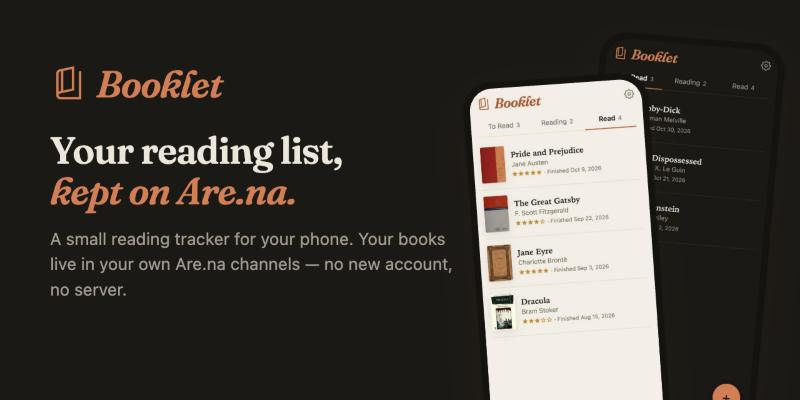
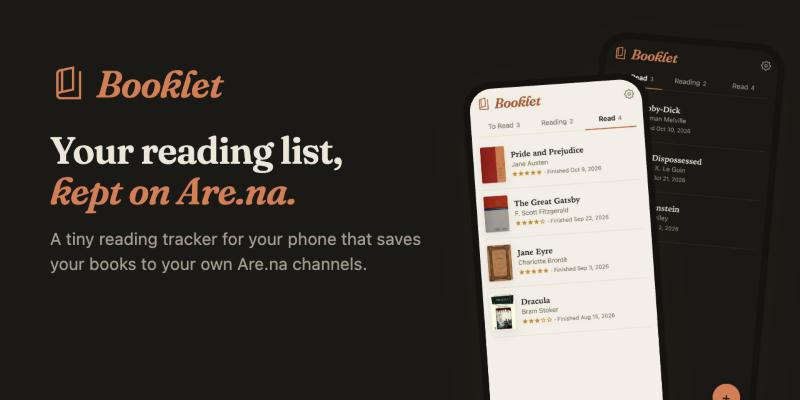
Rewrite landing page and README copy in a plainer, more personal voice
Drop slogan lines, rule-of-three lists, bold-lead bullets and decorative
glyphs; add a short first-person note on why Booklet exists; refresh the
README banner's tagline.

Changed region(s): [[0.0625, 0.57, 0.5625, 0.75]]

diff --git a/site/index.html b/site/index.html
@@ -4,7 +4,7 @@
 <meta charset="utf-8">
 <meta name="viewport" content="width=device-width, initial-scale=1">
 <title>Booklet — a reading tracker that keeps your books on Are.na</title>
-<meta name="description" content="Booklet is a small phone app for what you want to read, are reading and have read. Your books live in your own Are.na channels. Free and open source.">
+<meta name="description" content="Booklet is a tiny app for your phone that keeps track of what you want to read, what you’re reading and what you’ve finished, and saves it all to your own Are.na channels.">
 <meta property="og:title" content="Booklet">
 <meta property="og:description" content="A reading tracker that keeps your books on Are.na. Free and open source.">
 <meta property="og:image" content="https://booklet.lol/screens/shelf.jpg">
@@ -69,10 +69,8 @@
   .section-lede { color: var(--muted); max-width: 40em; margin: 0 0 40px; }
   .features { display: grid; grid-template-columns: repeat(3, 1fr); gap: 20px; }
   .feature { background: var(--surface); border: 1px solid var(--line); border-radius: 16px; padding: 22px; }
-  .feature h3 { font: 600 20px/1.25 var(--serif); margin: 10px 0 6px; }
+  .feature h3 { font: 600 20px/1.25 var(--serif); margin: 0 0 6px; }
   .feature p { margin: 0; color: var(--muted); font-size: 15.5px; }
-  .glyph { width: 38px; height: 38px; border-radius: 10px; background: var(--manila); color: var(--accent);
-    display: grid; place-items: center; font-size: 19px; }
 
   .split { display: grid; grid-template-columns: .9fr 1.1fr; gap: 56px; align-items: center; }
   .split .phone { position: relative; margin: 0 auto; transform: none; }
@@ -92,6 +90,7 @@
   .faq h3 { font: 600 19px/1.3 var(--serif); margin: 0 0 6px; }
   .faq p { margin: 0; color: var(--muted); }
 
+  .why p { max-width: 40em; color: var(--muted); margin: 0 0 14px; font-size: 18px; }
   footer { border-top: 1px solid var(--line); padding: 36px 0 56px; color: var(--muted); font-size: 14px; }
   footer .row { display: flex; flex-wrap: wrap; gap: 8px 22px; justify-content: space-between; }
   footer a { color: var(--muted); }
@@ -126,14 +125,14 @@
     <div>
       <p class="eyebrow">A reading tracker for Are.na</p>
       <h1>Your reading list, <em>kept on Are.na.</em></h1>
-      <p class="lede">Booklet is a small app for your phone: the books you want to read, the ones you’re reading,
-        and the ones you’ve finished. Search, tap, done. Your books live in your own Are.na channels — no new
-        account, no server.</p>
+      <p class="lede">Booklet is a tiny app for your phone that keeps track of what you want to read, what
+        you’re reading and what you’ve finished. Everything gets saved to channels in your own Are.na
+        account, so there’s nothing new to sign up for.</p>
       <div class="ctas">
         <a class="btn primary" href="https://github.com/awelfle/booklet">Get Booklet on GitHub</a>
-        <a class="btn" href="https://github.com/awelfle/booklet#set-up-your-own-copy">Read the setup guide</a>
+        <a class="btn" href="https://github.com/awelfle/booklet#set-up-your-own-copy">How to set it up</a>
       </div>
-      <p class="fine">Free and open source (MIT). Works with free Are.na accounts.</p>
+      <p class="fine">It’s free and open source, and it works fine with a free Are.na account.</p>
     </div>
     <div class="phones" aria-hidden="true">
       <div class="phone back"><img src="/screens/dark.jpg" alt=""></div>
@@ -143,22 +142,24 @@
 
   <section id="features">
     <div class="wrap">
-      <h2>Everything a reading list needs, nothing it doesn’t</h2>
-      <p class="section-lede">Made for adding a book in the bookshop, marking it started on the train, and
-        rating it the night you finish.</p>
+      <h2>What it does</h2>
+      <p class="section-lede">It’s a list of books, so it doesn’t do a ton. But it does these things well.</p>
       <div class="features">
-        <div class="feature"><div class="glyph">◫</div><h3>Three shelves</h3>
-          <p>To Read, Reading and Read. Move a book along with one tap; Booklet notes when you started and finished.</p></div>
-        <div class="feature"><div class="glyph">⌕</div><h3>Finds the book</h3>
-          <p>Searches Open Library and Google Books together, so brand-new releases, typos and ISBNs all turn up.</p></div>
-        <div class="feature"><div class="glyph">❦</div><h3>The right edition</h3>
-          <p>Saves the U.S. print edition — hardcover first — with its cover, publisher, pages and ISBN.</p></div>
-        <div class="feature"><div class="glyph">★</div><h3>Dates and ratings</h3>
-          <p>Rate a book when you finish it, and fix any start or finish date after the fact.</p></div>
-        <div class="feature"><div class="glyph">▢</div><h3>On your home screen</h3>
-          <p>Add it to your phone and it opens like an app. Light and dark, sized for one thumb.</p></div>
-        <div class="feature"><div class="glyph">◎</div><h3>Your data, your Are.na</h3>
-          <p>Every book is a block in your own channels. Booklet has no server; your token stays on your device.</p></div>
+        <div class="feature"><h3>Three shelves</h3>
+          <p>To Read, Reading and Read. Moving a book to the next shelf takes one tap, and Booklet writes down the date.</p></div>
+        <div class="feature"><h3>Search that finds things</h3>
+          <p>It checks Open Library and Google Books at the same time, so it can find a book that came out last
+            week, and it doesn’t mind a typo or two.</p></div>
+        <div class="feature"><h3>The U.S. edition</h3>
+          <p>It picks the American print edition (hardcover, if there is one) and saves its cover, publisher,
+            page count and ISBN.</p></div>
+        <div class="feature"><h3>Ratings and dates</h3>
+          <p>Give a book some stars when you finish it. Forgot to mark when you started? You can fix the date later.</p></div>
+        <div class="feature"><h3>On your home screen</h3>
+          <p>Add it to your phone’s home screen and it opens like any other app. It does dark mode, too.</p></div>
+        <div class="feature"><h3>It stays on Are.na</h3>
+          <p>Each book is a block in your own channels. There’s no Booklet server, and your Are.na token
+            never leaves your phone.</p></div>
       </div>
     </div>
   </section>
@@ -167,13 +168,13 @@
     <div class="wrap split">
       <div class="phone"><img src="/screens/book.jpg" alt="A book in Booklet: cover, author, edition details, start date, links and actions"></div>
       <div>
-        <h2>Everything about a book, one tap away</h2>
-        <p class="section-lede">Tap any book for its edition details and your dates, with links out to read
-          more or buy a copy.</p>
+        <h2>A closer look at a book</h2>
+        <p class="section-lede">Tap any book to see which edition you saved and when you started it, along with
+          links if you want to read more about it or buy a copy.</p>
         <ul class="checks">
           <li>Links to Bookshop, Open Library, Google Books and Amazon</li>
-          <li>“Finished it” asks for a rating; “Reading it again” starts a fresh read</li>
-          <li>Because it’s Are.na, every book is also a block you can connect to other channels</li>
+          <li>“Finished it” asks how many stars it gets, and “Reading it again” starts the clock over</li>
+          <li>Since it’s all on Are.na, you can connect any book to your other channels</li>
         </ul>
       </div>
     </div>
@@ -181,39 +182,54 @@
 
   <section id="setup">
     <div class="wrap">
-      <h2>Set up in about ten minutes</h2>
-      <p class="section-lede">Booklet is a web page you host yourself — free on Netlify, GitHub Pages or anything
-        that serves files. The <a href="https://github.com/awelfle/booklet#set-up-your-own-copy">README</a> walks through it.</p>
+      <h2>Setting it up</h2>
+      <p class="section-lede">Booklet isn’t a hosted service — you run your own copy. That’s free on Netlify,
+        GitHub Pages or pretty much anywhere that serves web pages. The
+        <a href="https://github.com/awelfle/booklet#set-up-your-own-copy">README</a> has the details, but
+        here’s the short version:</p>
       <ol class="steps">
-        <li><h3>Deploy your copy</h3><p>Fork the repo and deploy it. There’s a one-click Netlify button, and no build step.</p></li>
-        <li><h3>Make an Are.na token</h3><p>Create a personal access token with write access in your Are.na settings.</p></li>
-        <li><h3>Create your shelves</h3><p>Open your copy, paste the token and tap “Create my shelves.” Then add it to your home screen.</p></li>
+        <li><h3>Make your own copy</h3><p>Fork the repo and deploy it. There’s a “Deploy to Netlify” button, and nothing to build.</p></li>
+        <li><h3>Get an Are.na token</h3><p>Make a personal access token with write access in your Are.na settings.</p></li>
+        <li><h3>Make your shelves</h3><p>Open your copy, paste in the token and tap “Create my shelves.” Then add it to your home screen.</p></li>
       </ol>
     </div>
   </section>
 
   <section>
     <div class="wrap">
-      <h2>Show what you’re reading</h2>
-      <p class="section-lede">Booklet comes with a tiny widget that lists your Reading shelf on any website.
-        No token needed — your shelves are viewable by anyone.</p>
+      <h2>Put it on your website</h2>
+      <p class="section-lede">Booklet comes with a little widget that shows your Reading shelf on any web page.
+        It doesn’t need your token, because anyone can look at your shelves (they just can’t change them).</p>
 <pre><code>&lt;div data-currently-reading="your-reading-channel"&gt;&lt;/div&gt;
 &lt;script src="https://your-booklet/currently-reading.js" defer&gt;&lt;/script&gt;</code></pre>
     </div>
   </section>
 
   <section>
+    <div class="wrap why">
+      <h2>Why I made this</h2>
+      <p>Hi! I’m <a href="https://andy.wtf">Andy</a>. I wanted a quick, low-fuss way to keep my reading list that
+        wasn’t a social network, and Are.na felt like a nice place for it to live. So I built one. I made it
+        with Claude Code, so… take that as you will!</p>
+      <p>If you try it and something’s off, <a href="https://github.com/awelfle/booklet/issues">open an issue</a>
+        or <a href="https://andy.wtf/contact/">drop me a line</a>.</p>
+    </div>
+  </section>
+
+  <section>
     <div class="wrap">
-      <h2>Questions</h2>
+      <h2>Questions you might have</h2>
       <div class="faq">
         <div><h3>Do I need Are.na Premium?</h3>
-          <p>No. Booklet doesn’t use any Premium-only features. Free accounts have lower API rate limits, which is plenty for books.</p></div>
-        <div><h3>What does it cost?</h3>
-          <p>Nothing. Booklet is free and open source, and static hosting is free on most hosts.</p></div>
-        <div><h3>Where’s my data?</h3>
-          <p>In your Are.na channels. Booklet stores only your token and shelf names, in your browser.</p></div>
-        <div><h3>Is this made by Are.na?</h3>
-          <p>No — Booklet is an independent project built on Are.na’s public API.</p></div>
+          <p>Nope. Booklet doesn’t use any Premium-only features. Free accounts can make fewer requests per minute,
+            but a reading list doesn’t come anywhere near the limit.</p></div>
+        <div><h3>Does it cost anything?</h3>
+          <p>No. Booklet is free and open source, and most places that host static sites are free, too.</p></div>
+        <div><h3>Where does my stuff go?</h3>
+          <p>Into your Are.na channels. The only things Booklet keeps on your phone are your token and which
+            channels are your shelves.</p></div>
+        <div><h3>Is this an Are.na thing?</h3>
+          <p>No. It’s an independent project that uses Are.na’s public API.</p></div>
       </div>
     </div>
   </section>
@@ -221,7 +237,7 @@
 
 <footer>
   <div class="wrap row">
-    <span>Booklet · MIT license · Made by <a href="https://andy.wtf">Andy Welfle</a></span>
+    <span>Booklet is free and open source (MIT). Made by <a href="https://andy.wtf">Andy Welfle</a> in San Francisco.</span>
     <span><a href="https://github.com/awelfle/booklet">GitHub</a> · <a href="https://github.com/awelfle/booklet#readme">README</a> ·
       Book data from <a href="https://openlibrary.org">Open Library</a> and <a href="https://books.google.com">Google Books</a></span>
   </div>

diff --git a/site/banner.html b/site/banner.html
@@ -17,7 +17,7 @@
   html, body { margin: 0; width: 640px; height: 320px; overflow: hidden; background: var(--paper); color: var(--ink);
     font-family: -apple-system, BlinkMacSystemFont, "Segoe UI", system-ui, sans-serif; }
   .banner { position: relative; width: 640px; height: 320px; }
-  .text { position: absolute; left: 40px; top: 52px; width: 330px; }
+  .text { position: absolute; left: 40px; top: 52px; width: 300px; }
   .brand { display: flex; align-items: center; gap: 7px; color: var(--accent);
     font: italic 600 30px/1 "Fraunces", Georgia, serif; letter-spacing: -.02em; margin-bottom: 22px; }
   h1 { font: 600 30px/1.08 "Fraunces", Georgia, serif; letter-spacing: -.02em; margin: 0 0 12px; }
@@ -38,7 +38,7 @@
       Booklet
     </div>
     <h1>Your reading list,<br><em>kept on Are.na.</em></h1>
-    <p>A small reading tracker for your phone. Your books live in your own Are.na channels — no new account, no server.</p>
+    <p>A tiny reading tracker for your phone that saves your books to your own Are.na channels.</p>
   </div>
   <div class="phone back"><img src="/screens/dark.jpg" alt=""></div>
   <div class="phone front"><img src="/screens/shelf.jpg" alt=""></div>

diff --git a/README.md b/README.md
@@ -14,16 +14,19 @@
   <a href="#currently-reading-on-your-website">Website widget</a>
 </p>
 
-**Booklet** is a small reading tracker for your phone that keeps your books on [Are.na](https://www.are.na).
-Three shelves — **To Read**, **Reading** and **Read** — each an Are.na channel you own.
+**Booklet** is a tiny reading tracker for your phone. It has three shelves — To Read, Reading and Read —
+and every book you add gets saved to channels in your own [Are.na](https://www.are.na) account.
 
-- **Finds the book.** Searches Open Library and Google Books together, so new releases, typos and ISBNs all turn up.
-- **Saves the right edition.** The U.S. print edition, hardcover first, with cover, publisher, pages and links
-  to Bookshop, Amazon and Open Library.
-- **Dates and ratings.** Booklet notes when you start and finish; rate it when you're done, fix dates any time.
-- **Lives on your home screen.** Light and dark, made for one thumb.
-- **No server, no new account.** A static page that talks to Are.na with your own token, which never leaves
-  your device. Free and open source.
+Here's what it does:
+
+- Searches Open Library and Google Books at the same time, so it finds new releases and doesn't mind typos.
+- Saves the U.S. print edition (hardcover, if there is one) with its cover, publisher, page count, ISBN and
+  links to Bookshop, Amazon and Open Library.
+- Writes down when you start and finish a book, lets you give it stars, and lets you fix the dates later.
+- Opens from your phone's home screen like any other app, in light or dark mode.
+- Runs entirely in your browser. There's no Booklet server, and your Are.na token stays on your device.
+
+I made it because I wanted a quick reading list that wasn't a social network. It's free and open source.
 
 <p align="center">
   <img src="site/screens/shelf.jpg" alt="The Read shelf with covers, star ratings and finish dates" width="240">
@@ -33,24 +36,28 @@ Three shelves — **To Read**, **Reading** and **Read** — each an Are.na chann
   <img src="site/screens/dark.jpg" alt="The To Read shelf in dark mode" width="240">
 </p>
 
-> Booklet is an independent project and isn't affiliated with Are.na.
+> Booklet is an independent project. It isn't made by or affiliated with Are.na.
 
 ## How it works
 
-- **Are.na is the database.** Each shelf is a channel you own (created as *closed*: anyone can view it,
-  only you can add). Each book is a block — an image block of the cover, with the book's details stored
-  as block metadata. Moving a book between shelves moves its connection; the dates and your rating live
-  on that connection.
-- **Search uses Open Library and Google Books together.** Google is better at finding books (new
-  releases, typos); Open Library is better at picking the edition. Booklet merges both and saves the
-  **U.S. English print edition, hardcover first**, using ISBN and publisher clues.
-- **Your token stays on your device.** It's saved in the browser's local storage and only ever sent to
-  Are.na.
+Each shelf is an Are.na channel you own. Booklet makes them as *closed* channels, which means anyone can
+look at them but only you can add to them.
+
+Each book is a block: an image of the cover, with the book's details saved as metadata on the block.
+Moving a book to another shelf moves its connection, and the dates and your rating are stored on that
+connection.
+
+Search uses Open Library and Google Books together. In testing, Google was better at finding books
+(especially new releases and misspellings) and Open Library was better at telling editions apart. Booklet
+merges the results and saves the U.S. English print edition, hardcover first, based on the ISBN and
+publisher.
+
+Your token is saved in your browser's local storage and only ever gets sent to Are.na.
 
 ### Do I need Are.na Premium?
 
-No. Booklet doesn't use any Premium-only API features. Free accounts have lower API rate limits
-(30 changes a minute, against 60 on Premium), which is plenty for tracking books.
+Nope. Booklet doesn't use any Premium-only API features. Free accounts get lower API rate limits
+(30 changes a minute instead of 60), but a reading list doesn't come anywhere near that.
 
 ## Set up your own copy
 
@@ -63,12 +70,14 @@ No. Booklet doesn't use any Premium-only API features. Free accounts have lower 
    (Already have channels you want to use? Paste their links instead and tap Save.)
 4. **On iPhone:** Share → Add to Home Screen.
 
-On iOS, a home-screen app doesn't share storage with Safari, so you'll paste the token once more there.
-To skip re-entering your shelves on new devices, put their slugs in `DEFAULT_CHANNELS` (see below).
+One iPhone quirk: an app on your home screen doesn't share storage with Safari, so you'll need to paste
+your token in again there. If you don't want to re-enter your shelves on every new device, put their
+slugs in `DEFAULT_CHANNELS` (more on that below).
 
 ### Optional: a Google Books key
 
-Without one, Booklet searches Open Library only, which is a little weaker on brand-new books.
+You don't need one. Without it, Booklet only searches Open Library, which is a little slower to list
+brand-new books.
 
 1. In [Google Cloud Console](https://console.cloud.google.com), create a project and enable the **Books API**.
 2. Create an **API key**. Restrict it to **Websites** → your copy's address (e.g. `https://books.example.com/*`)
@@ -84,8 +93,8 @@ private fork.
 
 ## "Currently reading" on your website
 
-`currently-reading.js` is a self-contained widget that lists your Reading shelf on any site — no token
-needed, since the channel is viewable by anyone:
+`currently-reading.js` is a little widget that lists your Reading shelf on any web page. It doesn't need
+your token, because anyone can look at the channel:
 
 ```html
 <div data-currently-reading="your-reading-channel-slug"></div>
@@ -96,7 +105,7 @@ See `widget-demo.html`. Style it with the `.cr-*` classes.
 
 ## Development
 
-Plain HTML, CSS and ES modules — no framework and no build step.
+It's plain HTML, CSS and JavaScript modules, with no framework and no build step.
 
 | Path | |
 |---|---|
